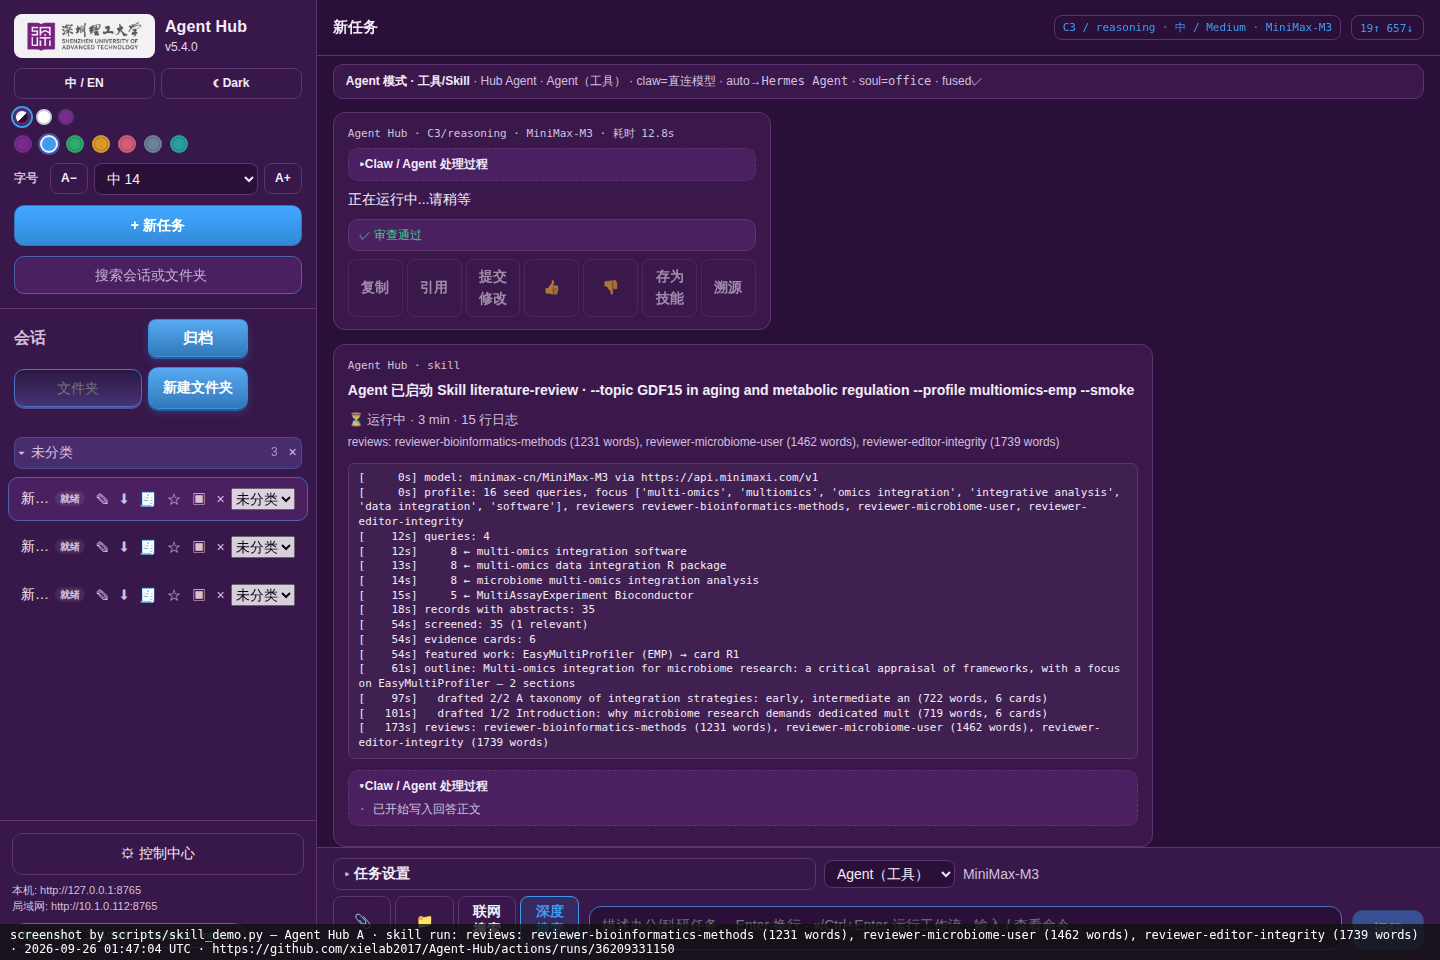
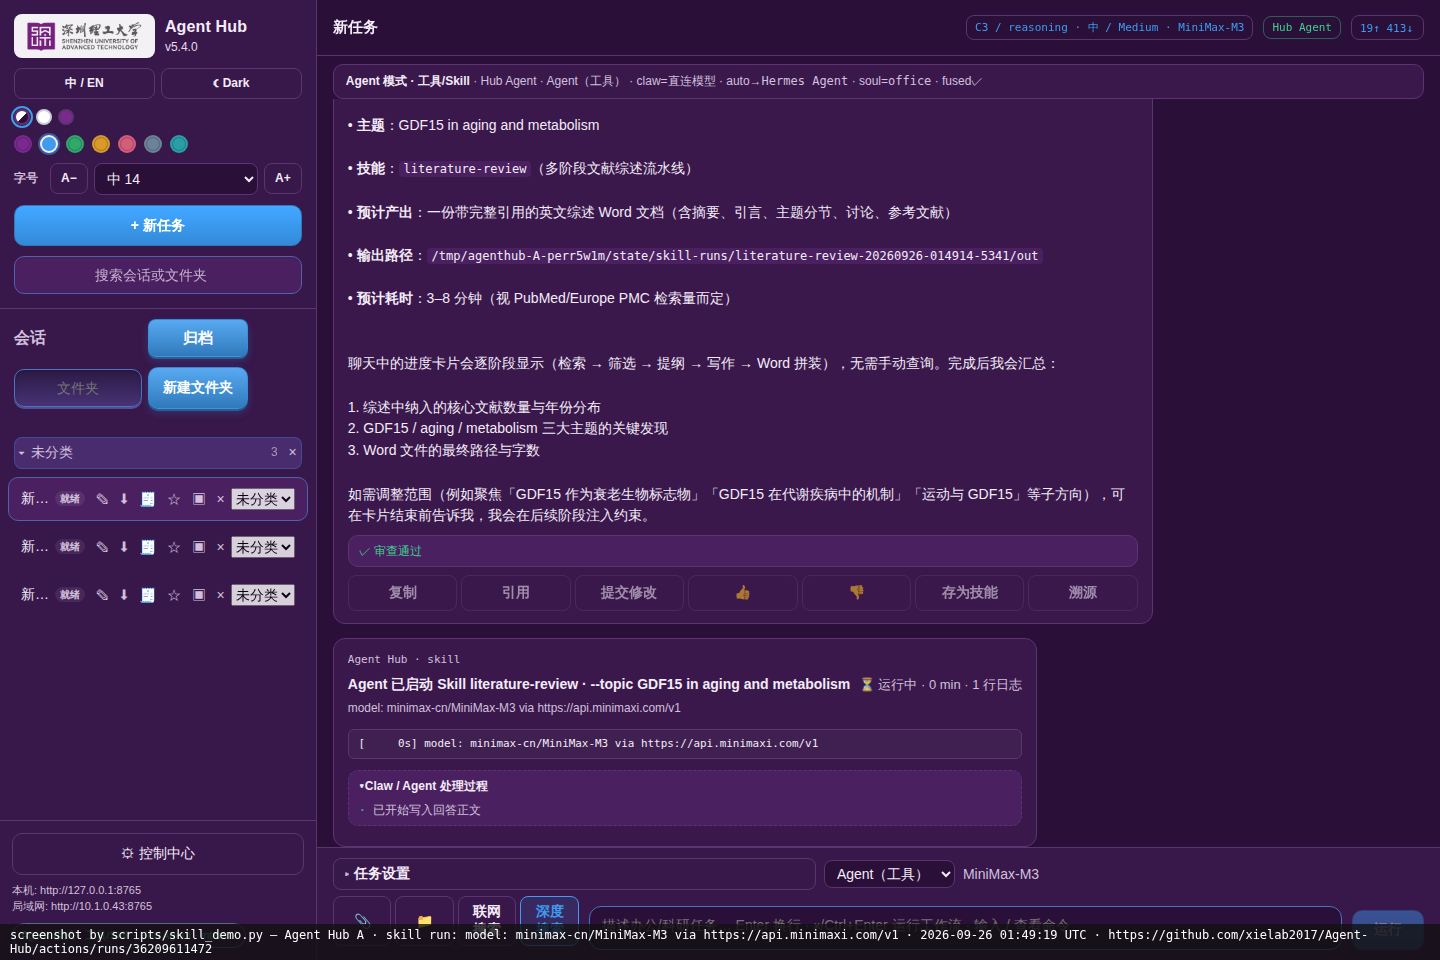
Skill demo live: outputs/hub_agent_demo (run 36209611472)

diff --git a/outputs/hub_agent_demo/screens/index.md b/outputs/hub_agent_demo/screens/index.md
@@ -17,3 +17,8 @@
 - 2026-09-26 01:43:48 UTC — `017_A_pubmed-answer.png` — agent used no tools
 - 2026-09-26 01:43:51 UTC — `018_A_skill-running.png` — typed (plain language): 帮我写一篇关于 GDF15 与衰老和代谢的英文综述，先小规模试跑一下看看效果。
 - 2026-09-26 01:44:03 UTC — `019_A_skill-answer.png` — agent used run_skill, skill_status
+- 2026-09-26 01:48:41 UTC — `020_A_home.png` — Hub with MiniMax-M3 only, chat mode Agent — no external agent
+- 2026-09-26 01:48:45 UTC — `021_A_pubmed-running.png` — typed (plain language): THBS4 在骨骼肌衰老中有哪些研究证据？请查一下文献，简要总结并给出 PMID。
+- 2026-09-26 01:49:06 UTC — `022_A_pubmed-answer.png` — agent used run_skill
+- 2026-09-26 01:49:10 UTC — `023_A_skill-running.png` — typed (plain language): 帮我写一篇关于 GDF15 与衰老和代谢的英文综述，先小规模试跑一下看看效果。
+- 2026-09-26 01:49:19 UTC — `024_A_skill-answer.png` — agent used run_skill, run_skill, run_skill
